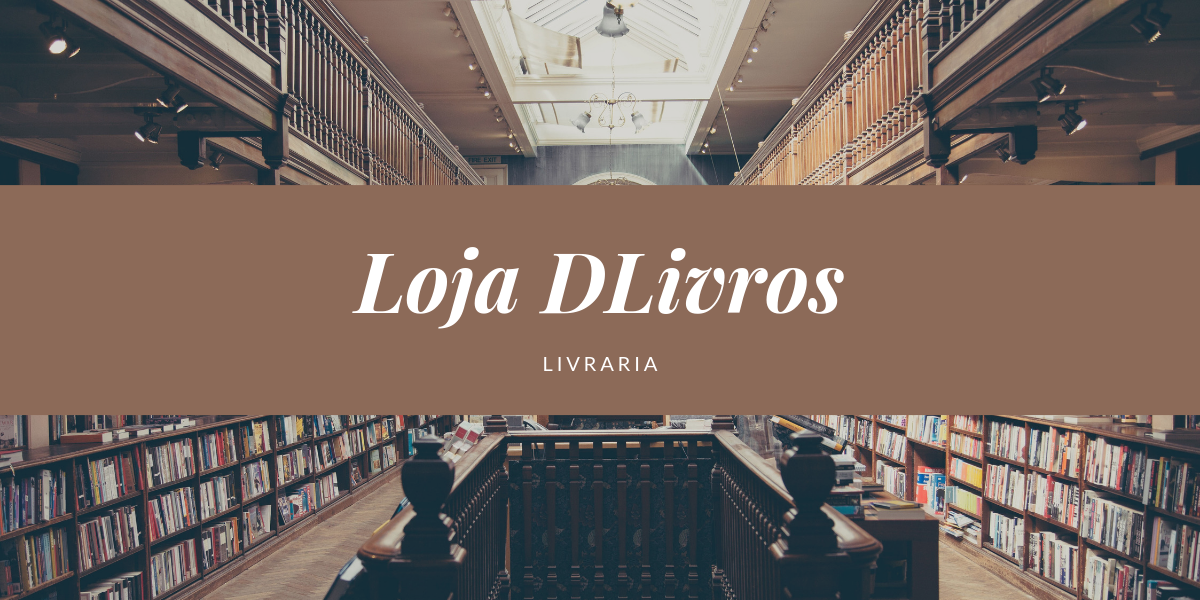
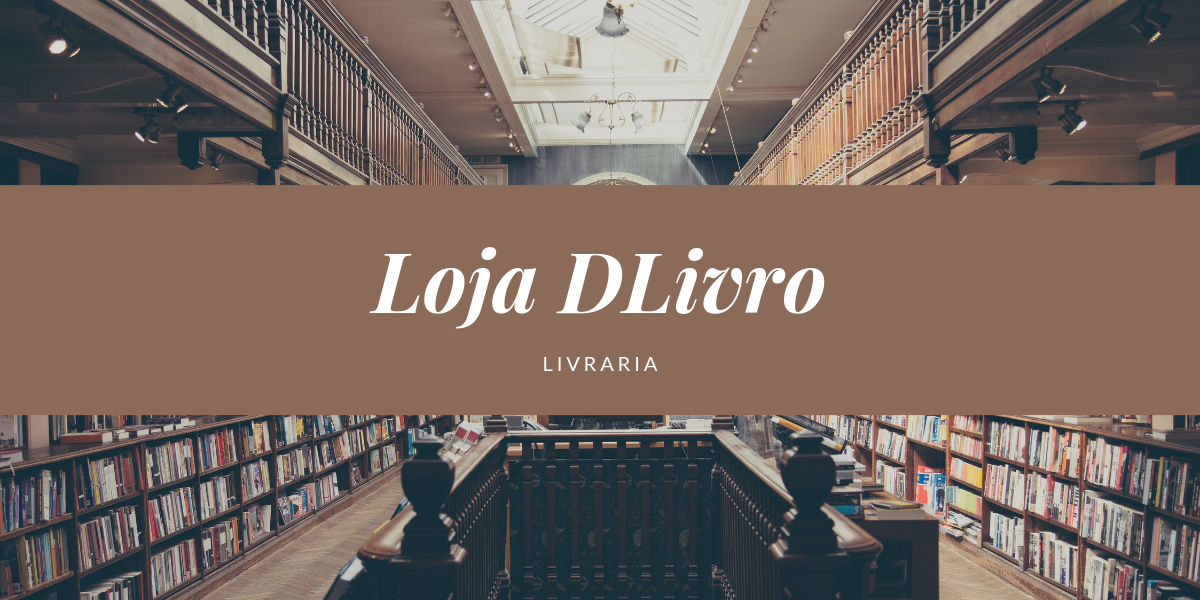
Correção no nome da loja.

Changed region(s): [[0.2775, 0.39, 0.7092, 0.57]]

diff --git a/index.html b/index.html
@@ -14,7 +14,7 @@
 <div class="container-fluid">
     <header>
         <nav class="navbar navbar-expand-lg navbar-light">
-                <h1><a class="navbar-brand" href="index.html">DLivros</a></h1>
+            <h1><a class="navbar-brand" href="index.html">DLivro</a></h1>
             <button class="navbar-toggler" type="button" data-toggle="collapse" data-target="#navbarSupportedContent" aria-controls="navbarSupportedContent" aria-expanded="false" aria-label="Toggle navigation">
                 <span class="navbar-toggler-icon"></span>
             </button>

diff --git a/sobre-nos.html b/sobre-nos.html
@@ -14,7 +14,7 @@
 <div class="container-fluid">
     <header>
         <nav class="navbar navbar-expand-lg navbar-light">
-                <h1><a class="navbar-brand" href="index.html">DLivros</a></h1>
+            <h1><a class="navbar-brand" href="index.html">DLivro</a></h1>
             <button class="navbar-toggler" type="button" data-toggle="collapse" data-target="#navbarSupportedContent" aria-controls="navbarSupportedContent" aria-expanded="false" aria-label="Toggle navigation">
                 <span class="navbar-toggler-icon"></span>
             </button>

diff --git a/loja-fisica.html b/loja-fisica.html
@@ -14,7 +14,7 @@
 <div class="container-fluid">
     <header>
         <nav class="navbar navbar-expand-lg navbar-light">
-            <h1><a class="navbar-brand" href="index.html">DLivros</a></h1>
+            <h1><a class="navbar-brand" href="index.html">DLivro</a></h1>
             <button class="navbar-toggler" type="button" data-toggle="collapse" data-target="#navbarSupportedContent" aria-controls="navbarSupportedContent" aria-expanded="false" aria-label="Toggle navigation">
                 <span class="navbar-toggler-icon"></span>
             </button>
